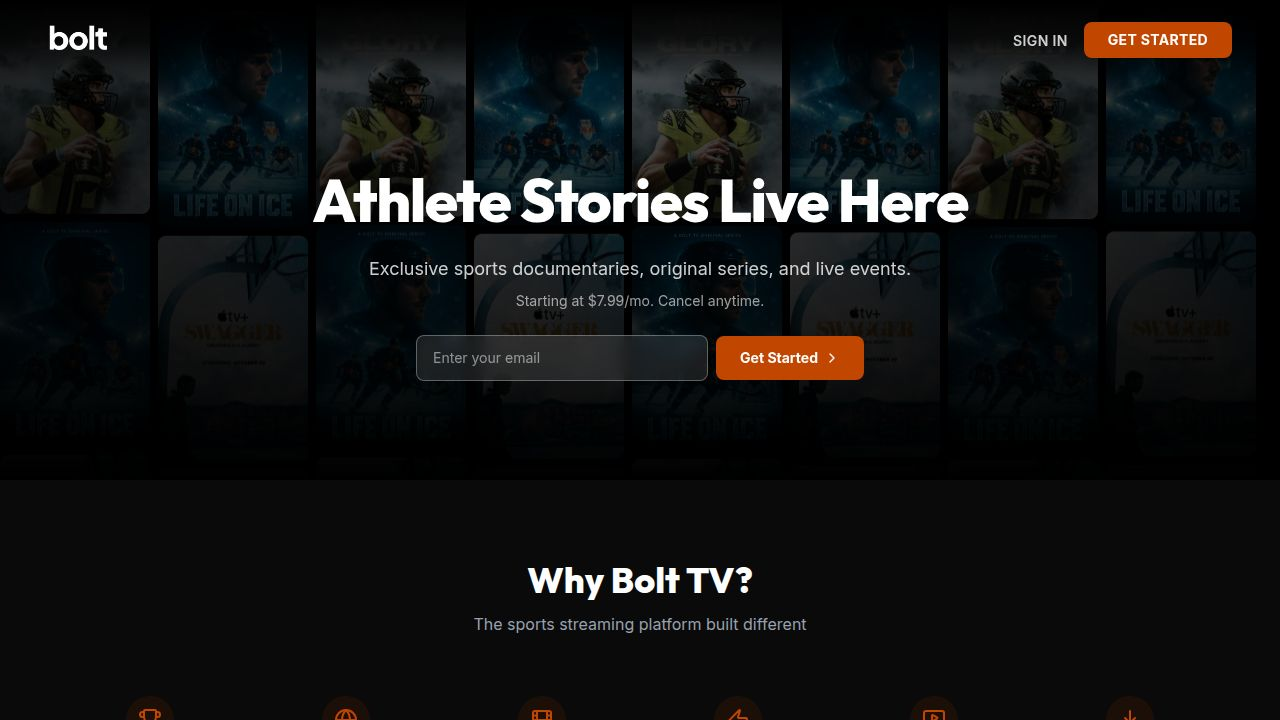
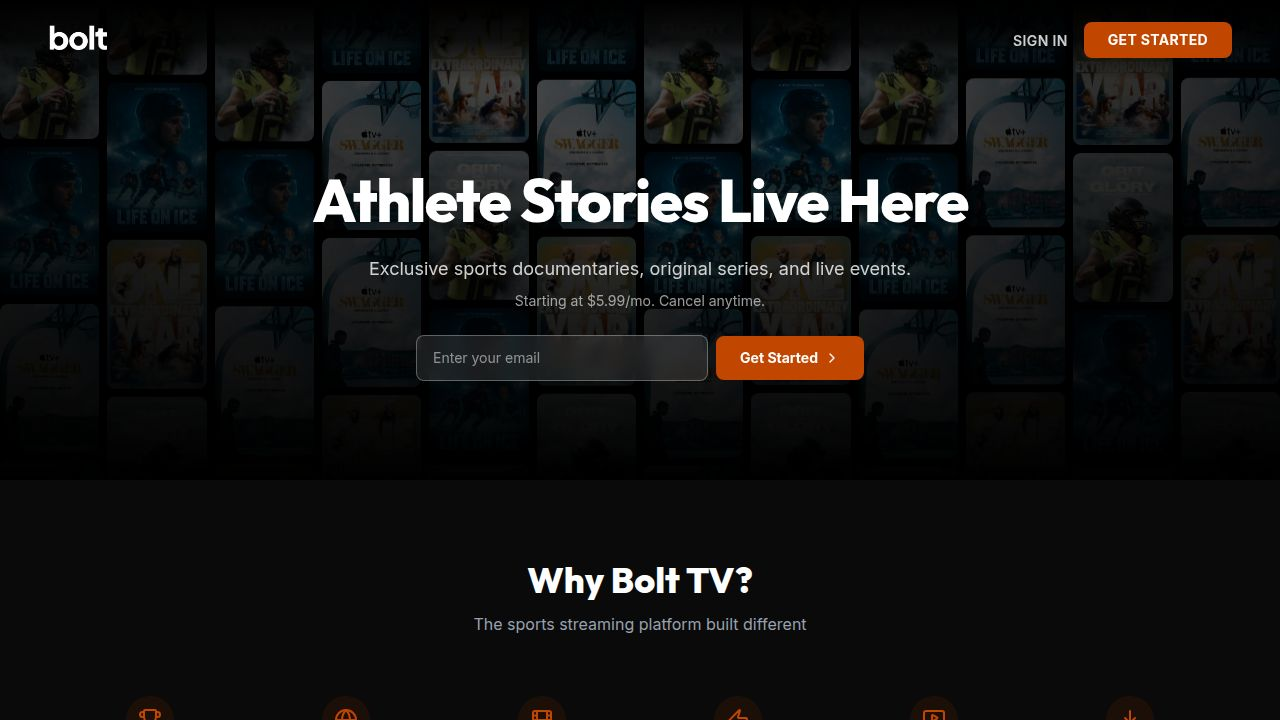
Update pricing to use real Cleeng offers and dynamic data
Refactors the landing page to dynamically fetch and display Cleeng offers, updating the CleengOffer interface and pricing logic to match the API response structure, and replacing hardcoded plan data with real-time offer details.

Replit-Commit-Author: Agent
Replit-Commit-Session-Id: 9179748d-7a75-45d6-868b-871d010c8838
Replit-Commit-Checkpoint-Type: full_checkpoint
Replit-Commit-Event-Id: 31f068f9-d72d-48b8-9fd1-b6e0564ef4da
Replit-Commit-Screenshot-Url: https://storage.googleapis.com/screenshot-production-us-central1/5ba63d78-d64b-4f65-84d6-cc9de688a1b6/9179748d-7a75-45d6-868b-871d010c8838/9mzVxf2
Replit-Helium-Checkpoint-Created: true

Changed region(s): [[0.0, 0.0611, 1.0, 0.4583], [0.0938, 0.2139, 0.125, 0.3056], [0.0938, 0.3361, 0.125, 0.3972]]

diff --git a/client/src/pages/LandingPage.tsx b/client/src/pages/LandingPage.tsx
@@ -26,11 +26,11 @@ interface LandingRow {
 interface CleengOffer {
   id: string;
   title: string;
-  price: number;
-  currency: string;
-  period: string;
-  freePeriods?: number;
-  freeDays?: number;
+  price: { amount: number; currency: string; taxIncluded: boolean } | number;
+  currency?: string;
+  period?: string;
+  billingCycle?: { periodUnit: string; amount: number };
+  tags?: string[];
   description?: string;
   features?: string[];
 }
@@ -149,61 +149,85 @@ export default function LandingPage() {
     }
   };
 
-  const monthlyPlans = [
-    {
-      name: "Basic",
-      price: "$7.99",
-      yearlyPrice: "$79.99",
-      desc: "Great for casual fans",
-      popular: false,
-      features: {
-        "Full content library": true,
-        "Ad-supported": true,
-        "Simultaneous streams": "1",
-        "Video quality": "HD",
-        "Offline downloads": false,
-        "Live events": false,
-        "Early access": false,
-        "Priority support": false,
-      },
-    },
-    {
-      name: "Premium",
-      price: "$12.99",
-      yearlyPrice: "$129.99",
-      desc: "Best value for sports fans",
-      popular: true,
-      features: {
-        "Full content library": true,
-        "Ad-supported": false,
-        "Simultaneous streams": "3",
-        "Video quality": "4K Ultra HD",
-        "Offline downloads": true,
-        "Live events": true,
-        "Early access": false,
-        "Priority support": false,
-      },
-    },
-    {
-      name: "Ultimate",
-      price: "$19.99",
-      yearlyPrice: "$199.99",
-      desc: "The complete experience",
-      popular: false,
-      features: {
-        "Full content library": true,
-        "Ad-supported": false,
-        "Simultaneous streams": "5",
-        "Video quality": "4K Ultra HD + HDR",
-        "Offline downloads": true,
-        "Live events": true,
-        "Early access": true,
-        "Priority support": true,
-      },
-    },
-  ];
+  const getOfferPrice = (offer: CleengOffer): number => {
+    if (typeof offer.price === "object" && offer.price !== null) {
+      return offer.price.amount;
+    }
+    return Number(offer.price);
+  };
 
-  const useApiPlans = offers.length >= 2;
+  const getOfferCurrency = (offer: CleengOffer): string => {
+    if (typeof offer.price === "object" && offer.price !== null) {
+      return offer.price.currency;
+    }
+    return offer.currency || "USD";
+  };
+
+  const getOfferPeriod = (offer: CleengOffer): string => {
+    if (offer.billingCycle?.periodUnit) {
+      return offer.billingCycle.periodUnit;
+    }
+    return offer.period?.replace("/", "") || "month";
+  };
+
+  const isPopularOffer = (offer: CleengOffer): boolean => {
+    return (offer.tags || []).some(t => 
+      t.toLowerCase().includes("popular") || t.toLowerCase().includes("most value")
+    );
+  };
+
+  const planFeatureMap: Record<string, Record<string, boolean | string>> = {
+    "Basic": {
+      "Full content library": true,
+      "Ad-supported": true,
+      "Simultaneous streams": "1",
+      "Video quality": "HD",
+      "Offline downloads": false,
+      "Live events": false,
+    },
+    "Premium": {
+      "Full content library": true,
+      "Ad-supported": false,
+      "Simultaneous streams": "3",
+      "Video quality": "4K Ultra HD",
+      "Offline downloads": true,
+      "Live events": true,
+    },
+  };
+
+  const planDescMap: Record<string, string> = {
+    "Basic": "Great for casual fans",
+    "Premium": "Best value for sports fans",
+  };
+
+  const planNames = [...new Set(offers.map(o => o.title))];
+
+  const getOfferForPlan = (planName: string, period: string) => {
+    return offers.find(o => o.title === planName && getOfferPeriod(o) === period);
+  };
+
+  const lowestPrice = offers
+    .filter(o => getOfferPeriod(o) === "month")
+    .reduce((min, o) => Math.min(min, getOfferPrice(o)), Infinity);
+
+  const startingPrice = lowestPrice < Infinity ? `$${lowestPrice.toFixed(2)}` : "$5.99";
+
+  const savingsPercent = (() => {
+    if (planNames.length === 0) return 16;
+    const first = planNames[0];
+    const mo = getOfferForPlan(first, "month");
+    const yr = getOfferForPlan(first, "year");
+    if (mo && yr) {
+      const monthlyCost = getOfferPrice(mo) * 12;
+      const yearlyCost = getOfferPrice(yr);
+      return Math.round((1 - yearlyCost / monthlyCost) * 100);
+    }
+    return 16;
+  })();
+
+  const featureKeys = planNames.length > 0 
+    ? Object.keys(planFeatureMap[planNames[0]] || planFeatureMap["Basic"])
+    : Object.keys(planFeatureMap["Basic"]);
 
   return (
     <div className="min-h-screen bg-black text-white">
@@ -255,7 +279,7 @@ export default function LandingPage() {
             Exclusive sports documentaries, original series, and live events.
           </p>
           <p className="text-white/60 text-xs md:text-sm mb-6">
-            Starting at $7.99/mo. Cancel anytime.
+            Starting at {startingPrice}/mo. Cancel anytime.
           </p>
           
           <div className="flex items-center gap-2 max-w-md mx-auto" data-testid="hero-email-form">
@@ -344,60 +368,74 @@ export default function LandingPage() {
                 data-testid="toggle-yearly"
               >
                 Yearly
-                <span className={`text-xs px-1.5 py-0.5 rounded-full ${billingCycle === "yearly" ? "bg-white/20" : "bg-[#C14600]/20 text-[#C14600]"}`}>
-                  Save 16%
-                </span>
+                {savingsPercent > 0 && (
+                  <span className={`text-xs px-1.5 py-0.5 rounded-full ${billingCycle === "yearly" ? "bg-white/20" : "bg-[#C14600]/20 text-[#C14600]"}`}>
+                    Save {savingsPercent}%
+                  </span>
+                )}
               </button>
             </div>
           </div>
 
-          {/* Plan Cards */}
-          <div className="grid md:grid-cols-3 gap-5 mb-12">
-            {monthlyPlans.map((plan, i) => (
-              <div
-                key={i}
-                className={`relative rounded-2xl p-6 md:p-8 transition-all duration-300 ${
-                  plan.popular
-                    ? "bg-white text-black border-2 border-[#C14600] scale-[1.02] shadow-xl shadow-[#C14600]/10"
-                    : "bg-white/[0.04] border border-white/10 hover:border-white/20"
-                }`}
-                data-testid={`card-plan-${i}`}
-              >
-                {plan.popular && (
-                  <div className="absolute -top-3 left-1/2 -translate-x-1/2">
-                    <span className="bg-[#C14600] text-white text-xs font-bold px-4 py-1 rounded-full uppercase tracking-wider">
-                      Most Popular
+          {/* Plan Cards from Cleeng */}
+          <div className={`grid gap-5 mb-12 ${planNames.length === 1 ? "max-w-md mx-auto" : planNames.length === 2 ? "md:grid-cols-2 max-w-3xl mx-auto" : "md:grid-cols-3"}`}>
+            {planNames.map((planName, i) => {
+              const period = billingCycle === "monthly" ? "month" : "year";
+              const offer = getOfferForPlan(planName, period);
+              if (!offer) return null;
+              const price = getOfferPrice(offer);
+              const currency = getOfferCurrency(offer);
+              const popular = isPopularOffer(offer);
+              const desc = planDescMap[planName] || offer.description || "";
+
+              return (
+                <div
+                  key={offer.id}
+                  className={`relative rounded-2xl p-6 md:p-8 transition-all duration-300 ${
+                    popular
+                      ? "bg-white text-black border-2 border-[#C14600] scale-[1.02] shadow-xl shadow-[#C14600]/10"
+                      : "bg-white/[0.04] border border-white/10 hover:border-white/20"
+                  }`}
+                  data-testid={`card-plan-${i}`}
+                >
+                  {popular && (
+                    <div className="absolute -top-3 left-1/2 -translate-x-1/2">
+                      <span className="bg-[#C14600] text-white text-xs font-bold px-4 py-1 rounded-full uppercase tracking-wider">
+                        Most Popular
+                      </span>
+                    </div>
+                  )}
+                  <h3 className={`text-xl font-bold mb-1 ${popular ? "text-black" : "text-white"}`}>
+                    {planName}
+                  </h3>
+                  {desc && (
+                    <p className={`text-sm mb-4 ${popular ? "text-gray-600" : "text-gray-400"}`}>
+                      {desc}
+                    </p>
+                  )}
+                  <div className="flex items-baseline gap-1 mb-6">
+                    <span className={`text-3xl md:text-4xl font-black ${popular ? "text-black" : "text-white"}`}>
+                      {currency === "USD" ? "$" : currency}{price.toFixed(2)}
+                    </span>
+                    <span className={`text-sm ${popular ? "text-gray-500" : "text-gray-400"}`}>
+                      /{billingCycle === "monthly" ? "mo" : "yr"}
                     </span>
                   </div>
-                )}
-                <h3 className={`text-xl font-bold mb-1 ${plan.popular ? "text-black" : "text-white"}`}>
-                  {plan.name}
-                </h3>
-                <p className={`text-sm mb-4 ${plan.popular ? "text-gray-600" : "text-gray-400"}`}>
-                  {plan.desc}
-                </p>
-                <div className="flex items-baseline gap-1 mb-6">
-                  <span className={`text-3xl md:text-4xl font-black ${plan.popular ? "text-black" : "text-white"}`}>
-                    {billingCycle === "monthly" ? plan.price : plan.yearlyPrice}
-                  </span>
-                  <span className={`text-sm ${plan.popular ? "text-gray-500" : "text-gray-400"}`}>
-                    /{billingCycle === "monthly" ? "mo" : "yr"}
-                  </span>
+                  <Link href="/subscribe">
+                    <button
+                      className={`w-full py-3 rounded-lg font-bold text-sm uppercase tracking-wide transition cursor-pointer ${
+                        popular
+                          ? "bg-[#C14600] hover:bg-[#d85200] text-white"
+                          : "bg-white/10 hover:bg-white/20 text-white border border-white/20"
+                      }`}
+                      data-testid={`button-choose-plan-${i}`}
+                    >
+                      Get Started
+                    </button>
+                  </Link>
                 </div>
-                <Link href={`/subscribe`}>
-                  <button
-                    className={`w-full py-3 rounded-lg font-bold text-sm uppercase tracking-wide transition cursor-pointer ${
-                      plan.popular
-                        ? "bg-[#C14600] hover:bg-[#d85200] text-white"
-                        : "bg-white/10 hover:bg-white/20 text-white border border-white/20"
-                    }`}
-                    data-testid={`button-choose-plan-${i}`}
-                  >
-                    Get Started
-                  </button>
-                </Link>
-              </div>
-            ))}
+              );
+            })}
           </div>
 
           {/* Comparison Table */}
@@ -406,21 +444,28 @@ export default function LandingPage() {
               <thead>
                 <tr className="border-b border-white/10">
                   <th className="text-left py-4 px-3 text-gray-400 font-medium">Features</th>
-                  {monthlyPlans.map((plan, i) => (
-                    <th key={i} className={`py-4 px-3 text-center font-bold ${plan.popular ? "text-[#C14600]" : "text-white"}`}>
-                      {plan.name}
-                    </th>
-                  ))}
+                  {planNames.map((planName, i) => {
+                    const offer = getOfferForPlan(planName, billingCycle === "monthly" ? "month" : "year");
+                    const popular = offer ? isPopularOffer(offer) : false;
+                    return (
+                      <th key={i} className={`py-4 px-3 text-center font-bold ${popular ? "text-[#C14600]" : "text-white"}`}>
+                        {planName}
+                      </th>
+                    );
+                  })}
                 </tr>
               </thead>
               <tbody>
-                {Object.keys(monthlyPlans[0].features).map((featureKey) => (
+                {featureKeys.map((featureKey) => (
                   <tr key={featureKey} className="border-b border-white/5">
-                    <td className="py-3 px-3 text-gray-300 capitalize">
-                      {featureKey.replace(/-/g, " ")}
+                    <td className="py-3 px-3 text-gray-300">
+                      {featureKey}
                     </td>
-                    {monthlyPlans.map((plan, i) => {
-                      const val = plan.features[featureKey as keyof typeof plan.features];
+                    {planNames.map((planName, i) => {
+                      const features = planFeatureMap[planName] || planFeatureMap["Basic"];
+                      const val = features[featureKey];
+                      const offer = getOfferForPlan(planName, billingCycle === "monthly" ? "month" : "year");
+                      const popular = offer ? isPopularOffer(offer) : false;
                       return (
                         <td key={i} className="py-3 px-3 text-center">
                           {val === true ? (
@@ -428,7 +473,7 @@ export default function LandingPage() {
                           ) : val === false ? (
                             <X className="w-5 h-5 text-gray-600 mx-auto" />
                           ) : (
-                            <span className={plan.popular ? "text-black font-medium" : "text-gray-300"}>{val}</span>
+                            <span className={popular ? "text-black font-medium" : "text-gray-300"}>{String(val)}</span>
                           )}
                         </td>
                       );
@@ -600,7 +645,7 @@ export default function LandingPage() {
             />
             <FAQItem
               question="How much does Bolt TV cost?"
-              answer="Bolt TV offers flexible plans starting at $7.99/month. Choose from Basic, Premium, or Ultimate plans. Save up to 16% with annual billing. Cancel anytime with no hidden fees."
+              answer={`Bolt TV offers flexible plans starting at ${startingPrice}/month. Save up to ${savingsPercent}% with annual billing. Cancel anytime with no hidden fees.`}
             />
             <FAQItem
               question="What devices can I watch on?"
